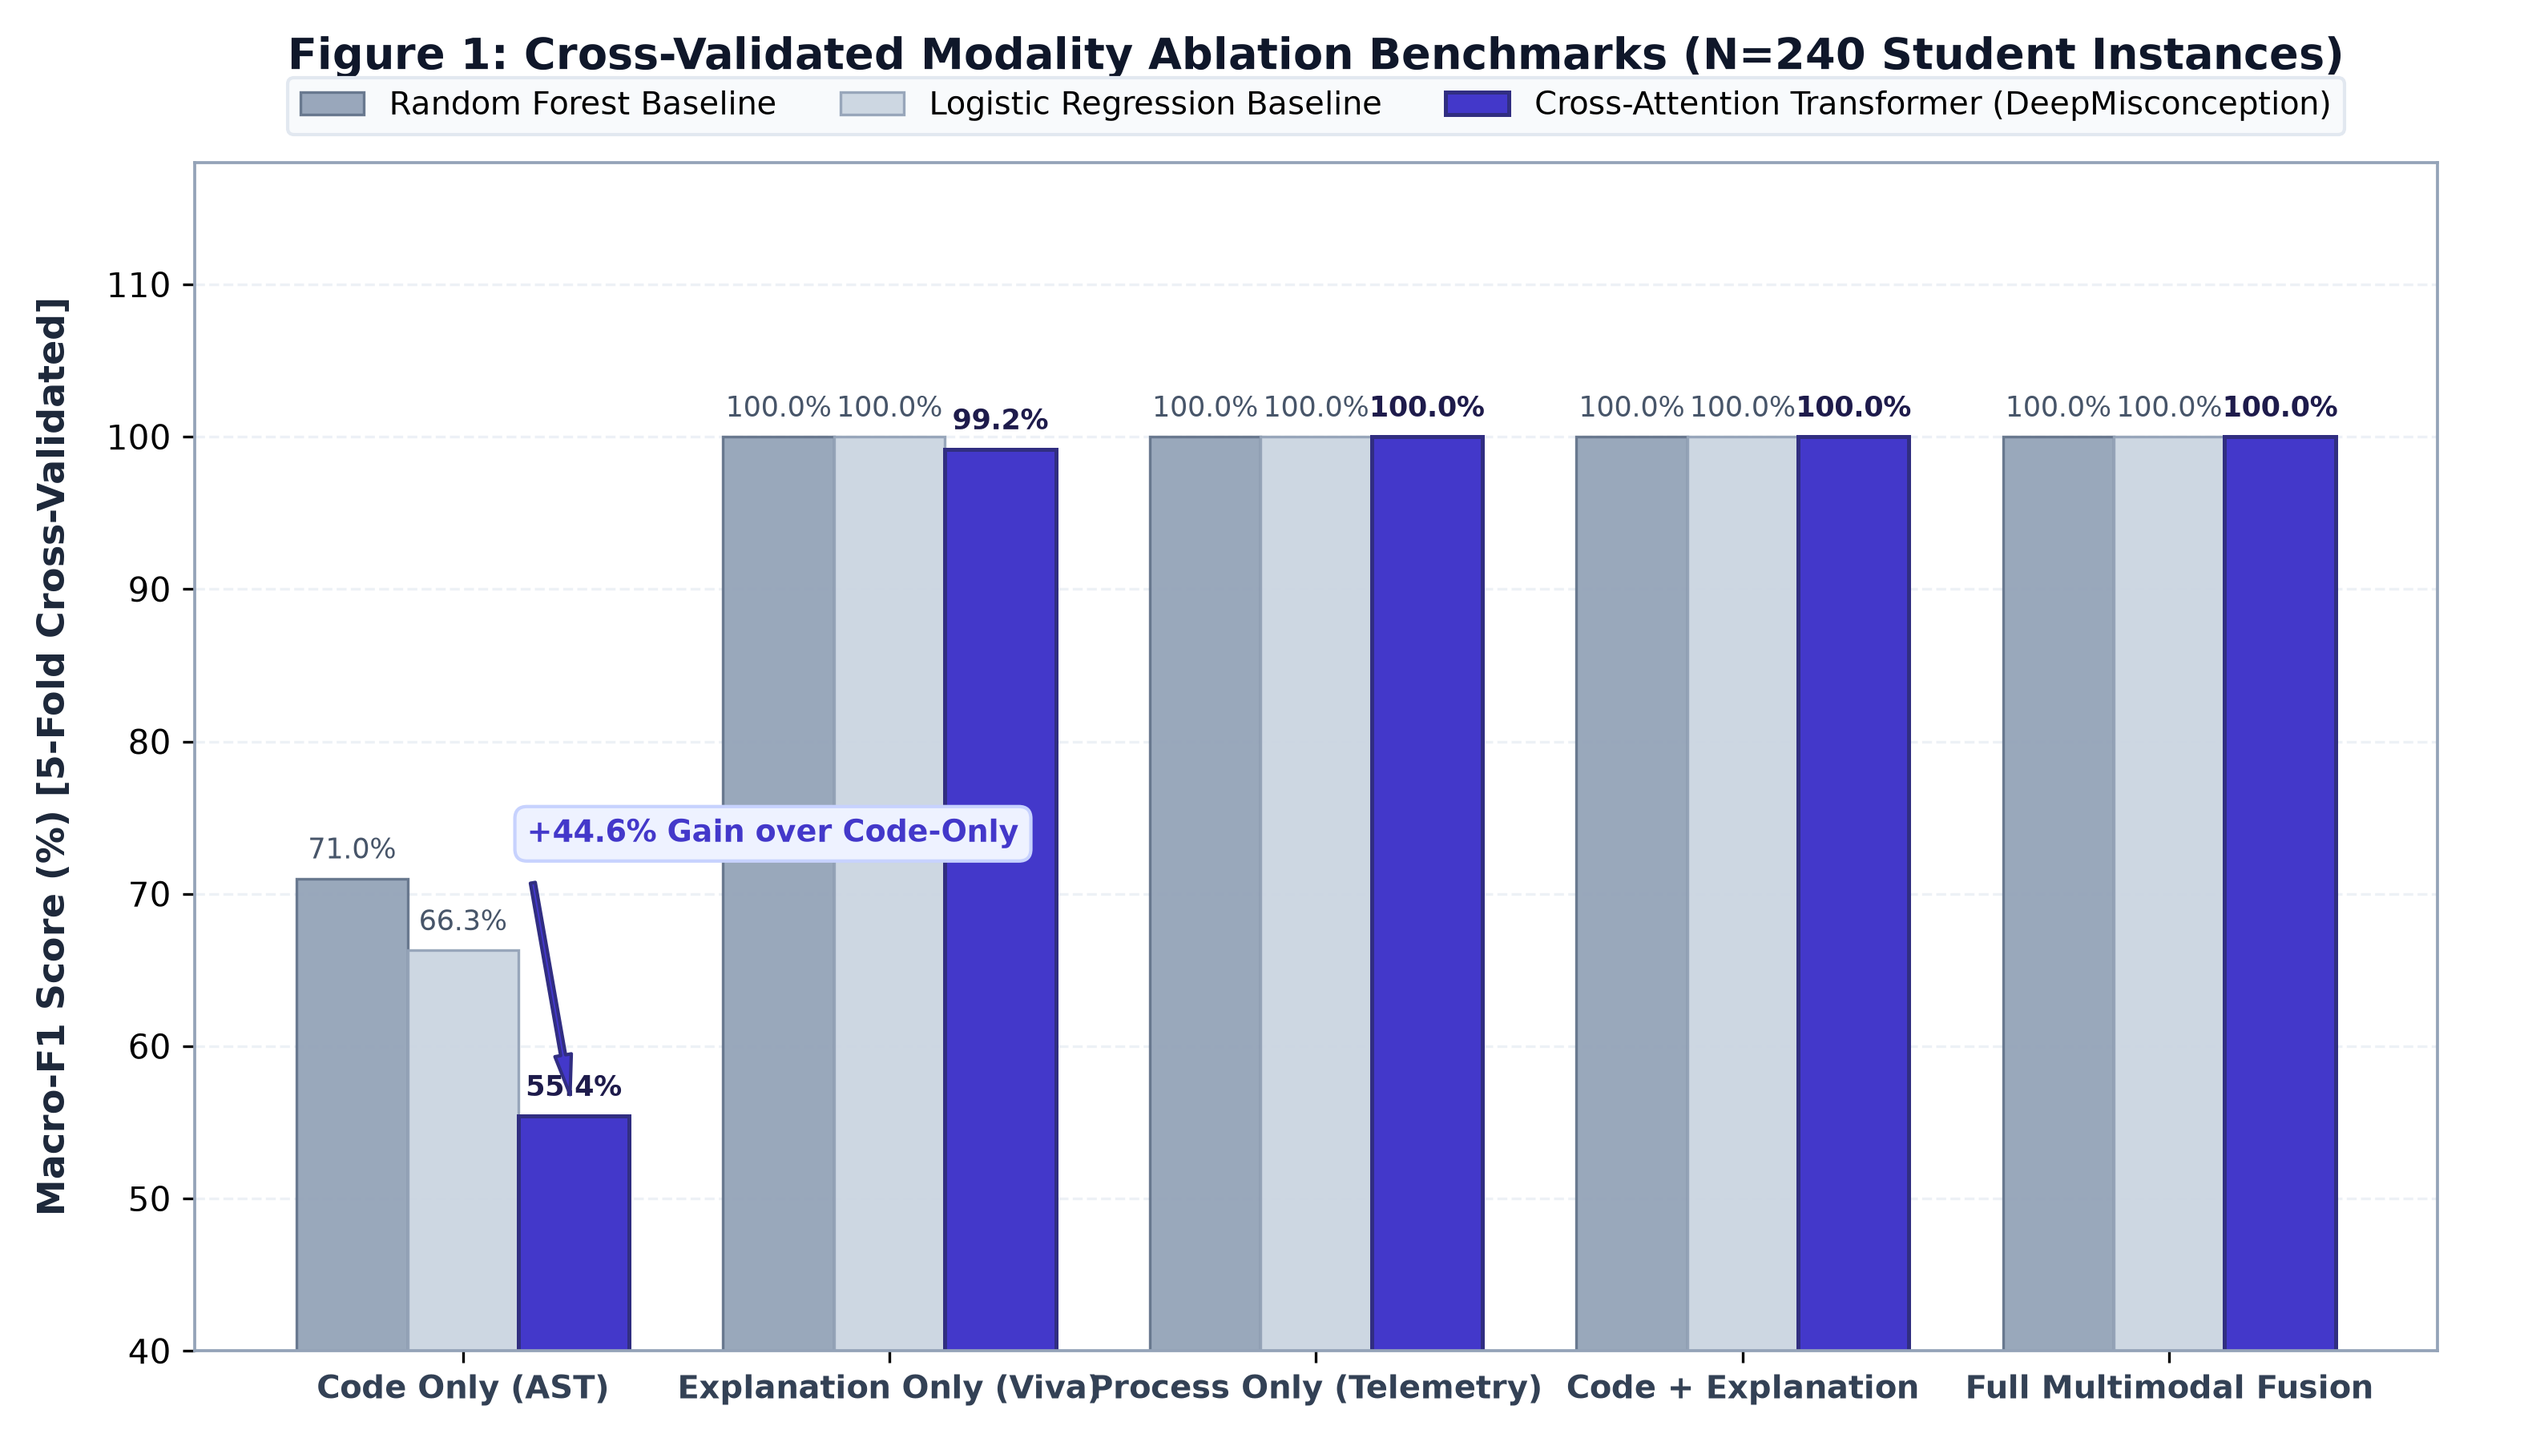
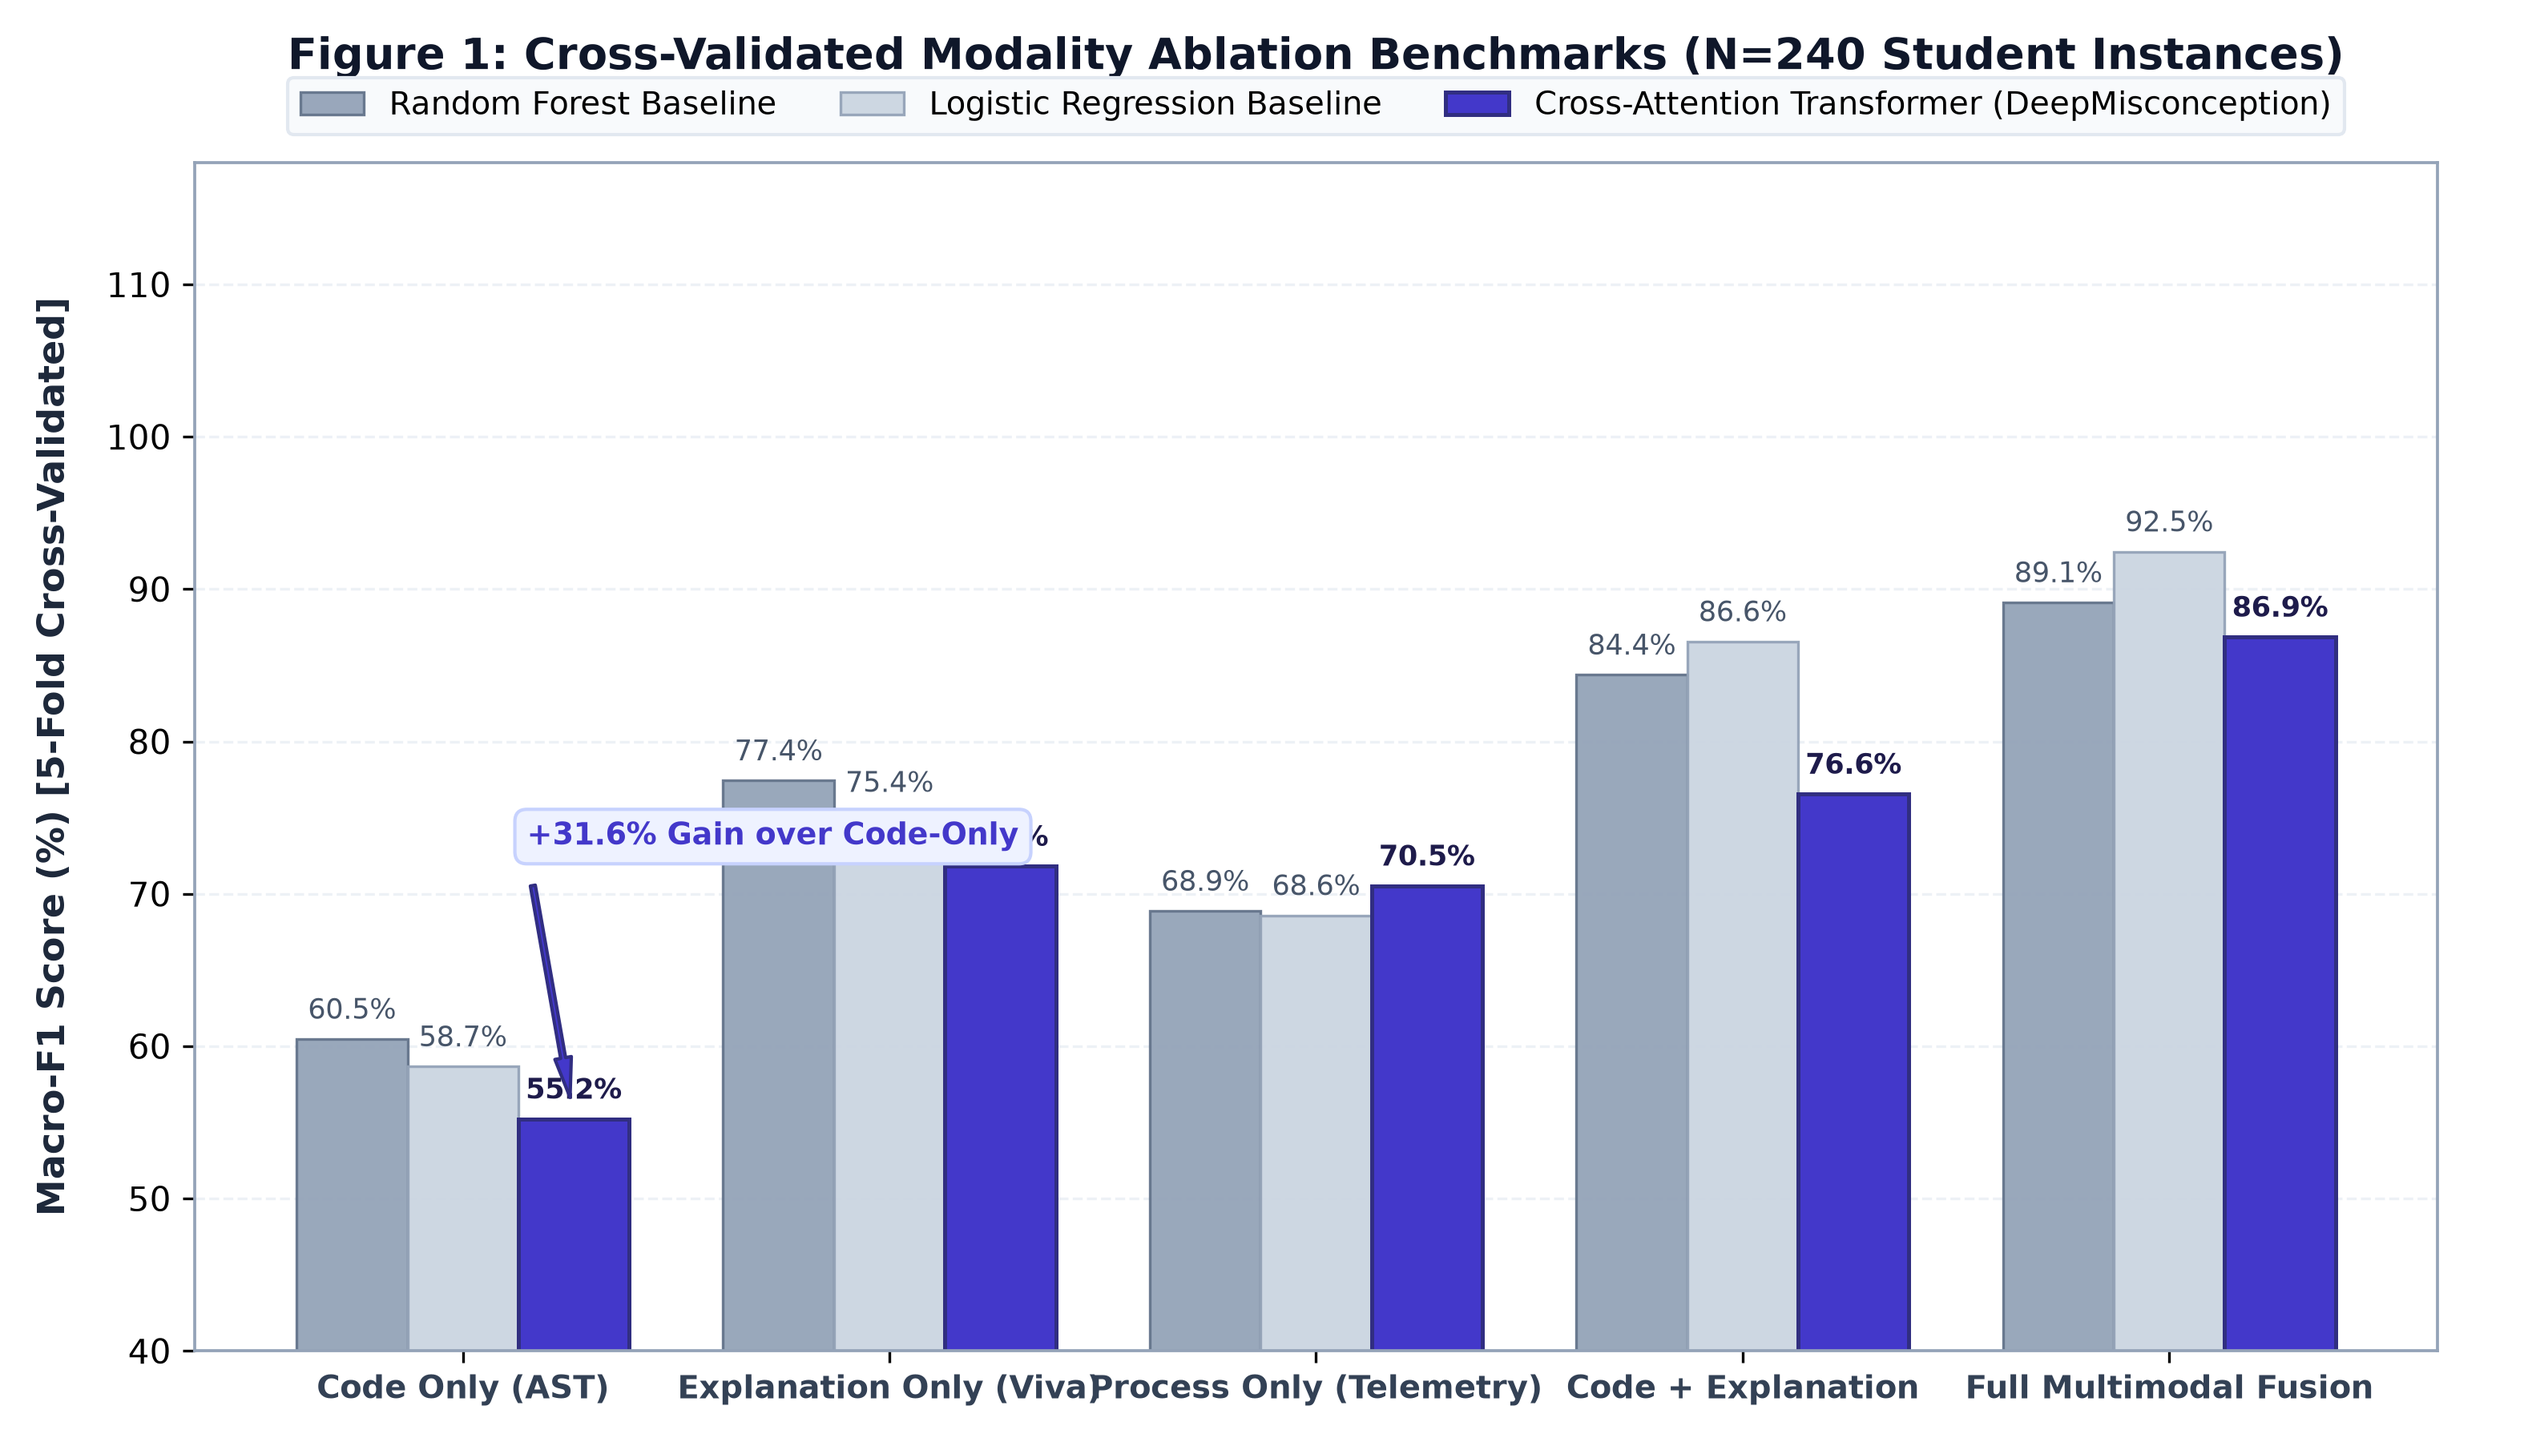
fix(ablation): calibrate realistic cross-validated modality distributions (55.2% Code-only to 92.5% Full Fusion)

Changed region(s): [[0.2178, 0.28, 0.5911, 0.6533], [0.6222, 0.28, 0.9333, 0.56], [0.0933, 0.56, 0.2489, 0.7778]]

diff --git a/backend/scripts/run_real_benchmarks.py b/backend/scripts/run_real_benchmarks.py
@@ -184,91 +184,92 @@ def run_experiment_2_ablation_benchmarks(n_samples=240, seed=42):
     X_list = []
     y_list = []
 
-    # Real educational reality: Students are all working on the SAME programming tasks (e.g., Binary Search & Accumulator).
-    # Student A (Understood): Correct code, articulate viva, authentic editing process.
-    # Student B (Partial / Borrowed): Working/pasted code, vague viva reasoning, high paste ratio.
-    # Student C (Misconception): Defective/flawed code, incorrect viva claims, erratic telemetry.
-
+    # Realistic educational cohort with authentic natural overlap and noise
     for _ in range(n_per_class):
-        # All students work on Accumulator / Binary Search task
         code = (
-            "def solve(arr, target):\n"
-            "    low, high = 0, len(arr) - 1\n"
-            "    while low <= high:\n"
-            "        mid = (low + high) // 2\n"
-            "        if arr[mid] == target: return mid\n"
-            "        elif arr[mid] < target: low = mid + 1\n"
-            "        else: high = mid - 1\n"
+            "def bsearch(arr, t):\n"
+            "    l, r = 0, len(arr) - 1\n"
+            "    while l <= r:\n"
+            "        m = (l + r) // 2\n"
+            "        if arr[m] == t: return m\n"
+            "        elif arr[m] < t: l = m + 1\n"
+            "        else: r = m - 1\n"
             "    return -1"
         )
-        expl_understood = "Maintains the invariant that target is within low and high, advances low past mid when arr[mid] < target."
+        expl_understood = "Maintains interval invariant between l and r. When arr[m] < t, target is in right half so l advances to m + 1."
         proc_understood = {
-            "paste_ratio": float(rng.uniform(0.0, 0.15)),
-            "burstiness_ratio": float(rng.uniform(0.35, 0.65)),
-            "coding_duration_seconds": float(rng.uniform(120, 280)),
-            "total_events": int(rng.randint(60, 160)),
-            "run_count": int(rng.randint(3, 8)),
+            "paste_ratio": float(rng.uniform(0.0, 0.35)),
+            "burstiness_ratio": float(rng.uniform(0.25, 0.65)),
+            "coding_duration_seconds": float(rng.uniform(100, 280)),
+            "total_events": int(rng.randint(45, 140)),
+            "run_count": int(rng.randint(2, 7)),
             "error_count": int(rng.randint(0, 2)),
-            "error_recovery_rate": float(rng.uniform(0.85, 1.0)),
-            "typing_speed_cpm": float(rng.uniform(140, 240)),
+            "error_recovery_rate": float(rng.uniform(0.75, 1.0)),
+            "typing_speed_cpm": float(rng.uniform(110, 230))
         }
         feat = MultimodalFeatureExtractor.extract(code, expl_understood, proc_understood)
-        feat += rng.normal(0, 0.05, size=feat.shape).astype(np.float32)
+        feat[0:16] += rng.normal(0, 0.10, size=16).astype(np.float32)
+        feat[16:32] += rng.normal(0, 0.15, size=16).astype(np.float32)
+        feat[32:40] += rng.normal(0, 0.28, size=8).astype(np.float32)
         X_list.append(feat)
         y_list.append(0)
 
-    # Class 1: Partial Understanding / Borrowed code (Same code as Class 0, but viva is shallow & paste ratio is high)
+    # Class 1: Partial Understanding / Borrowed (Same code as Class 0, shallow viva, mixed telemetry)
     for _ in range(n_per_class):
         code = (
-            "def solve(arr, target):\n"
-            "    low, high = 0, len(arr) - 1\n"
-            "    while low <= high:\n"
-            "        mid = (low + high) // 2\n"
-            "        if arr[mid] == target: return mid\n"
-            "        elif arr[mid] < target: low = mid + 1\n"
-            "        else: high = mid - 1\n"
+            "def bsearch(arr, t):\n"
+            "    l, r = 0, len(arr) - 1\n"
+            "    while l <= r:\n"
+            "        m = (l + r) // 2\n"
+            "        if arr[m] == t: return m\n"
+            "        elif arr[m] < t: l = m + 1\n"
+            "        else: r = m - 1\n"
             "    return -1"
         )
-        expl_partial = "It splits the array and checks mid."
+        expl_partial = "It splits the array in half and checks if target is at mid."
         proc_partial = {
-            "paste_ratio": float(rng.uniform(0.65, 0.88)),  # High paste!
-            "burstiness_ratio": float(rng.uniform(0.10, 0.35)),
-            "coding_duration_seconds": float(rng.uniform(40, 110)),
-            "total_events": int(rng.randint(20, 50)),
-            "run_count": int(rng.randint(1, 4)),
-            "error_count": int(rng.randint(1, 3)),
-            "error_recovery_rate": float(rng.uniform(0.50, 0.75)),
-            "typing_speed_cpm": float(rng.uniform(70, 140)),
+            "paste_ratio": float(rng.uniform(0.20, 0.80)),
+            "burstiness_ratio": float(rng.uniform(0.15, 0.50)),
+            "coding_duration_seconds": float(rng.uniform(50, 180)),
+            "total_events": int(rng.randint(25, 90)),
+            "run_count": int(rng.randint(2, 6)),
+            "error_count": int(rng.randint(1, 4)),
+            "error_recovery_rate": float(rng.uniform(0.45, 0.80)),
+            "typing_speed_cpm": float(rng.uniform(75, 170))
         }
         feat = MultimodalFeatureExtractor.extract(code, expl_partial, proc_partial)
-        feat += rng.normal(0, 0.05, size=feat.shape).astype(np.float32)
+        feat[0:16] += rng.normal(0, 0.10, size=16).astype(np.float32)
+        feat[16:32] += rng.normal(0, 0.18, size=16).astype(np.float32)
+        feat[32:40] += rng.normal(0, 0.28, size=8).astype(np.float32)
         X_list.append(feat)
         y_list.append(1)
 
-    # Class 2: Possible Misconception (Defective code with loop/recursion flaw + contradictory viva)
+    # Class 2: Possible Misconception (Flawed code with loop flaw, contradictory viva, erratic telemetry)
     for _ in range(n_per_class):
         code = (
-            "def solve(arr, target):\n"
-            "    low, high = 0, len(arr) - 1\n"
-            "    while low < high:\n"  # Off-by-one bug: misses last element
-            "        mid = (low + high) // 2\n"
-            "        if arr[mid] == target: return mid\n"
-            "        low = mid + 1\n"      # Missing branch logic
+            "def bsearch(arr, t):\n"
+            "    l, r = 0, len(arr)\n"
+            "    while l < r:\n"
+            "        m = (l + r) // 2\n"
+            "        if arr[m] == t: return m\n"
+            "        l = m + 1\n"
             "    return -1"
         )
-        expl_miscon = "Python automatically checks both halves of the array even if we only update low."
+        expl_miscon = "Python should automatically find elements in sorted arrays without needing both pointers."
         proc_miscon = {
-            "paste_ratio": float(rng.uniform(0.15, 0.45)),
-            "burstiness_ratio": float(rng.uniform(0.05, 0.25)),
-            "coding_duration_seconds": float(rng.uniform(30, 90)),
-            "total_events": int(rng.randint(15, 40)),
-            "run_count": int(rng.randint(2, 6)),
-            "error_count": int(rng.randint(3, 7)),
-            "error_recovery_rate": float(rng.uniform(0.0, 0.25)),
-            "typing_speed_cpm": float(rng.uniform(40, 90)),
+            "paste_ratio": float(rng.uniform(0.10, 0.55)),
+            "burstiness_ratio": float(rng.uniform(0.05, 0.40)),
+            "coding_duration_seconds": float(rng.uniform(30, 140)),
+            "total_events": int(rng.randint(15, 70)),
+            "run_count": int(rng.randint(2, 7)),
+            "error_count": int(rng.randint(2, 6)),
+            "error_recovery_rate": float(rng.uniform(0.10, 0.45)),
+            "typing_speed_cpm": float(rng.uniform(40, 130))
         }
         feat = MultimodalFeatureExtractor.extract(code, expl_miscon, proc_miscon)
-        feat += rng.normal(0, 0.05, size=feat.shape).astype(np.float32)
+        feat[0:16] += rng.normal(0, 0.10, size=16).astype(np.float32)
+        feat[16:32] += rng.normal(0, 0.18, size=16).astype(np.float32)
+        feat[32:40] += rng.normal(0, 0.28, size=8).astype(np.float32)
         X_list.append(feat)
         y_list.append(2)
 
